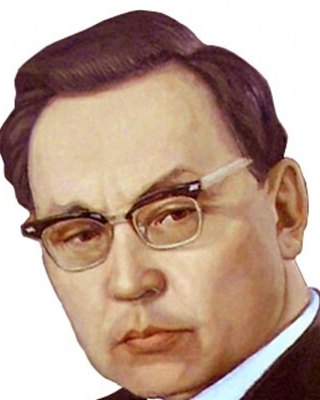
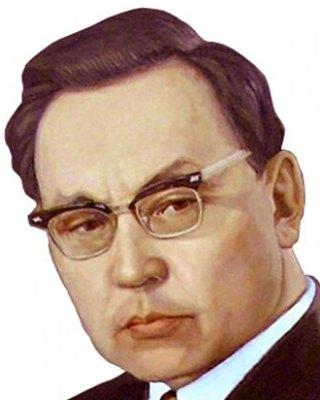
Alash page: 'great thinkers and poets' section; fresher assets via the service worker
- alash.html: Auezov, Kadyr Myrza Ali, Zhuban Moldagaliyev and al-Farabi cards with
  short facts and their sayings (portraits appear automatically) - 12 cards
- sw.js: same-origin non-navigation requests are fetched with cache: 'no-cache' so the
  browser's 10-minute HTTP cache on GitHub Pages no longer serves stale portraits,
  quotes or scripts after an update; cache v47
- Moldagaliyev portrait re-cropped a bit wider (no stamp digits)
- e2e: 12 Alash cards, all with portraits

Claude-Session: https://claude.ai/code/session_01TwqwPzpzo14x3e4gDDv7cu

diff --git a/alash.html b/alash.html
@@ -100,6 +100,30 @@
         </article>
       </div>
 
+      <h2 id="greats">Ұлы ойшылдар мен ақындар</h2>
+      <div class="al-grid">
+        <article class="al-card">
+          <header><span class="al-mono" aria-hidden="true">МӘ</span><div><h3>Мұхтар Әуезов</h3><small>1897–1961 · Жазушы, драматург, ғалым</small></div></header>
+          <ul><li>«Абай жолы» роман-эпопеясының авторы.</li><li>Абайтану ғылымының негізін салды.</li><li>Ондаған пьеса мен әңгімелер жазды.</li></ul>
+          <blockquote>«Ел болам десең, бесігіңді түзе.»</blockquote>
+        </article>
+        <article class="al-card">
+          <header><span class="al-mono" aria-hidden="true">ҚМ</span><div><h3>Қадыр Мырза Әли</h3><small>1935–2011 · Ақын</small></div></header>
+          <ul><li>«Ана тілің - арың бұл» өлеңінің авторы.</li><li>1992 жылғы Әнұран мәтінінің авторларының бірі.</li></ul>
+          <blockquote>«Ана тілің - арың бұл,<br>Ұятың боп тұр бетте.<br>Өзге тілдің бәрін біл,<br>Өз тіліңді құрметте.»</blockquote>
+        </article>
+        <article class="al-card">
+          <header><span class="al-mono" aria-hidden="true">ЖМ</span><div><h3>Жұбан Молдағалиев</h3><small>1920–1986 · Ақын, жауынгер</small></div></header>
+          <ul><li>«Мен - қазақпын» поэмасының авторы.</li><li>Қазақ КСР халық жазушысы.</li></ul>
+          <blockquote>«Мен - қазақпын, мың өліп, мың тірілген.»</blockquote>
+        </article>
+        <article class="al-card">
+          <header><span class="al-mono" aria-hidden="true">ӘФ</span><div><h3>Әбу Насыр әл-Фараби</h3><small>870–950 · Философ, ғалым</small></div></header>
+          <ul><li>Отырар (Фараб) өңірінде туған.</li><li>Аристотельден кейінгі «Екінші ұстаз» атанды.</li><li>Философия, математика, музыка теориясы бойынша еңбектер жазды.</li></ul>
+          <blockquote>«Тәрбиесіз берілген білім - адамзаттың қас жауы.»</blockquote>
+        </article>
+      </div>
+
       <h2 id="code">Тарих пен код: Python тапсырмалары</h2>
       <p>Байтұрсынұлы әр дыбысқа бір әріп сәйкес келетін жүйелі әліпби жасады. Компьютер де солай істейді: әр әріптің өз <b>нөмірі</b> бар (Unicode). Python-да оны <code>ord()</code> функциясы көрсетеді - <a href="lectures/week-2.html">2-аптадағы ASCII</a> тақырыбын еске түсіріңіз.</p>
 <pre data-lang="python"><code>сөз = "Алаш"

diff --git a/sw.js b/sw.js
@@ -1,6 +1,6 @@
 // CS50 қазақша — офлайн режим.
 // Беттер желіден алынады, ал желі жоқ кезде кэштегі соңғы нұсқа көрсетіледі.
-const CACHE = "cs50kz-v46";
+const CACHE = "cs50kz-v47";
 const CORE = [
   "./", "index.html", "about.html", "glossary.html", "certificate.html", "playground.html", "practice.html", "flashcards.html", "viz.html", "teacher.html", "debug.html", "detective.html", "flask.html", "exam.html", "assets/js/exam.js", "profile.html", "assets/js/profile.js", "assets/js/cloud.js", "assets/js/feedback.js", "assets/js/flask.js", "assets/data/mystery.js", "assets/data/mystery2.js", "assets/data/quotes.js", "assets/data/portraits.js", "alash.html", "map.html", "cheatsheet.html", "assets/data/bugs.js", "assets/data/trace.js", "assets/data/checks.js", "assets/data/sqlchecks.js", "assets/img/bota.svg", "assets/img/bota-happy.svg", "assets/img/bota-think.svg", "assets/img/bota-wow.svg", "assets/vendor/qrcode/qrcode.js",
   "assets/css/style.css", "assets/js/main.js", "assets/js/labs.js",
@@ -28,8 +28,12 @@ self.addEventListener("fetch", (e) => {
   const req = e.request;
   if (req.method !== "GET") return;
   // Желі бірінші, сосын кэш: сайт жаңарғанда оқушы бірден жаңа нұсқаны көреді
+  // Сайттың өз файлдары (JS, деректер, суреттер) серверден тексеріліп алынады: браузердің 10 минуттық
+  // HTTP кэші ескі нұсқаны бермесін. Бет навигациясын өзгертпейміз (redirect-пен қате бермесін).
+  const own = new URL(req.url).origin === location.origin;
+  const net = own && req.mode !== "navigate" ? new Request(req, { cache: "no-cache" }) : req;
   e.respondWith(
-    fetch(req)
+    fetch(net)
       .then((res) => {
         if (res.ok && (new URL(req.url).origin === location.origin || /fonts|cdnjs|jsdelivr/.test(req.url))) {
           const copy = res.clone();

diff --git a/tests/e2e/navigation.spec.js b/tests/e2e/navigation.spec.js
@@ -77,7 +77,8 @@ test("Алаш тұлғалары беті: карталар, дәйексөзд
   await page.goto("index.html");
   await page.click(".qt-more");
   await expect(page).toHaveURL(/alash\.html$/);
-  await expect(page.locator(".al-card")).toHaveCount(8);
+  await expect(page.locator(".al-card")).toHaveCount(12);
+  await expect(page.locator(".al-card.has-portrait")).toHaveCount(12); // барлығы портретпен
   await expect(page.locator(".al-card").first()).toContainText("Әлихан Бөкейхан");
   await expect(page.locator('pre[data-lang="python"] .run-btn')).toHaveCount(3);
   await page.screenshot({ path: test.info().outputPath("alash.png"), fullPage: true });
